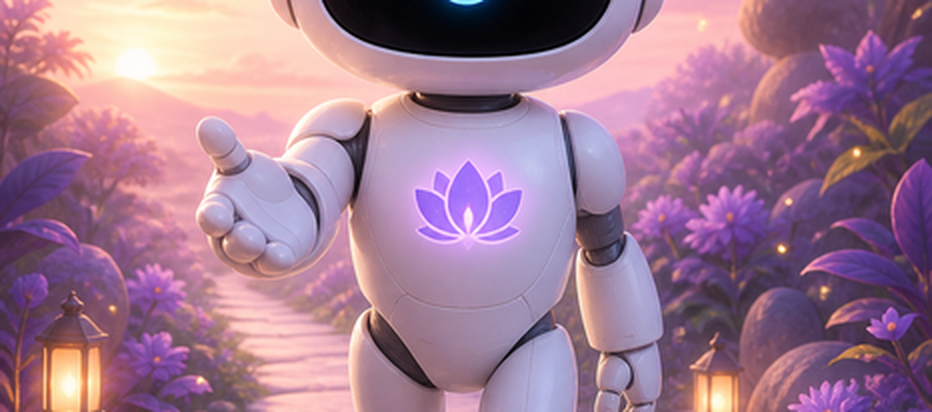
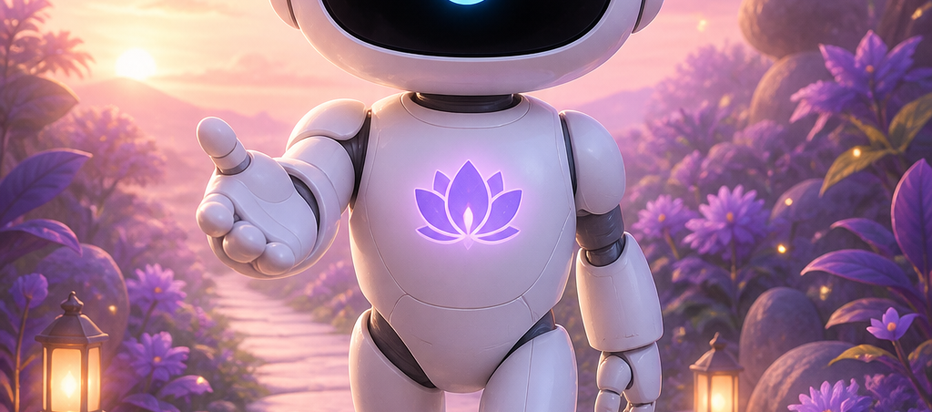
Onboarding: lock designer PNG map and splash framing
- Add onboardingAssets.ts for splash + three buddy paths and 78px width
- Wire StepSplash/Privacy/Setup/Contract to manifest only
- Splash: contain + drop-shadow (no double border); landscape from portrait source
- Mirror onboarding PNGs in references/calmlink-assets; edge-flood-fill script
- Document asset map in ASSETS.md

diff --git a/src/app/onboarding/components/StepSplash.tsx b/src/app/onboarding/components/StepSplash.tsx
@@ -1,13 +1,11 @@
 'use client';
 
 import React from 'react';
+import { onboardingAssets } from '@/app/onboarding/onboardingAssets';
 
 interface Props {
   onNext: () => void;
 }
-
-/** Horizontal 3D path hero — same framing as CalmLink onboarding DC (wide banner + warm glow). */
-const SPLASH_HERO_SRC = '/illustrations/spot_onboarding_dhira_path_landscape.png';
 
 export default function StepSplash({ onNext }: Props) {
   return (
@@ -16,26 +14,25 @@ export default function StepSplash({ onNext }: Props) {
         className="w-full"
         style={{
           maxWidth: 480,
-          borderRadius: 20,
-          border: '1px solid var(--color-border)',
-          boxShadow: '0 0 40px rgba(239,169,74,0.35)',
-          overflow: 'hidden',
+          filter: 'drop-shadow(0 0 28px rgba(239,169,74,0.35))',
           lineHeight: 0,
         }}
       >
         {/* eslint-disable-next-line @next/next/no-img-element */}
         <img
-          src={SPLASH_HERO_SRC}
+          src={onboardingAssets.splashHero}
           alt="DHIRA on a soft garden path at sunrise, welcoming you forward"
           width={932}
           height={412}
+          data-testid="onboarding-splash-hero"
           style={{
             width: '100%',
             height: 'auto',
             aspectRatio: '466 / 206',
-            objectFit: 'cover',
+            objectFit: 'contain',
             objectPosition: 'center center',
             display: 'block',
+            borderRadius: 20,
           }}
         />
       </div>

diff --git a/src/app/onboarding/onboardingAssets.ts b/src/app/onboarding/onboardingAssets.ts
@@ -1,0 +1,24 @@
+/**
+ * Onboarding illustration map — single source of truth.
+ * Files live in public/illustrations/ (designer PNGs; do not regenerate with AI).
+ *
+ * Sequence:
+ * 1 splashHero — horizontal 3D path scene
+ * 2 promiseBuddy — Our Promise (shield)
+ * 3 setupBuddy — Step 1 of 2 (wave)
+ * 4 contractBuddy — Step 2 of 2 (check-in)
+ */
+
+export const ONBOARDING_BUDDY_WIDTH = 78;
+
+export const onboardingAssets = {
+  /** Step 0 splash — horizontal banner (not portrait spot crop in UI). */
+  splashHero: '/illustrations/spot_onboarding_dhira_path_landscape.png',
+  /** Portrait source kept for archive / re-export only. */
+  splashHeroSource: '/illustrations/spot_onboarding_dhira_path.png',
+  promiseBuddy: '/illustrations/dhira_promise_shield.png',
+  setupBuddy: '/illustrations/dhira_setup_wave.png',
+  contractBuddy: '/illustrations/dhira_contract_checkin.png',
+} as const;
+
+export type OnboardingAssetKey = keyof typeof onboardingAssets;

diff --git a/src/app/onboarding/components/StepSetup.tsx b/src/app/onboarding/components/StepSetup.tsx
@@ -4,6 +4,7 @@ import React from 'react';
 import type { OnboardingData, Language } from './OnboardingFlow';
 import { LANGUAGE_OPTIONS } from '@/lib/artifactDesign';
 import { SHIFT_OPTIONS, writeStoredShift } from '@/lib/timeOfDay';
+import { onboardingAssets } from '@/app/onboarding/onboardingAssets';
 import OnboardingGreetingRow from './OnboardingGreetingRow';
 
 interface Props {
@@ -22,7 +23,7 @@ export default function StepSetup({ data, onChange, onNext, onBack }: Props) {
   return (
     <div style={{ display: 'flex', flexDirection: 'column', gap: '32px' }}>
       <OnboardingGreetingRow
-        buddySrc="/illustrations/dhira_setup_wave.png"
+        buddySrc={onboardingAssets.setupBuddy}
         buddyAlt="DHIRA waving hello while you choose your alias"
         eyebrow="Step 1 of 2"
         title={

diff --git a/src/app/onboarding/components/OnboardingGreetingRow.tsx b/src/app/onboarding/components/OnboardingGreetingRow.tsx
@@ -2,9 +2,9 @@
 
 import React from 'react';
 import FloatingBuddy from '@/components/FloatingBuddy';
+import { ONBOARDING_BUDDY_WIDTH } from '@/app/onboarding/onboardingAssets';
 
 /** Match home dashboard hero (`HomeGreeting`) — same buddy size, halo, and bob. */
-export const ONBOARDING_BUDDY_WIDTH = 78;
 export const ONBOARDING_BUDDY_BOB = 'dhira-bob 5.5s ease-in-out infinite';
 
 type Props = {
@@ -23,6 +23,7 @@ export default function OnboardingGreetingRow({ buddySrc, buddyAlt, eyebrow, tit
         alt={buddyAlt}
         width={ONBOARDING_BUDDY_WIDTH}
         bobAnimation={ONBOARDING_BUDDY_BOB}
+        className="onboarding-greeting-buddy"
       />
       <div style={{ display: 'flex', flexDirection: 'column', gap: '10px', textAlign: 'left', minWidth: 0 }}>
         <p

diff --git a/src/app/onboarding/components/StepContract.tsx b/src/app/onboarding/components/StepContract.tsx
@@ -3,6 +3,7 @@
 import React from 'react';
 import type { OnboardingData } from './OnboardingFlow';
 import { FREQUENCY_OPTIONS } from '@/lib/artifactDesign';
+import { onboardingAssets } from '@/app/onboarding/onboardingAssets';
 import OnboardingGreetingRow from './OnboardingGreetingRow';
 
 interface Props {
@@ -94,7 +95,7 @@ export default function StepContract({ data, onChange, onFinish, onBack }: Props
   return (
     <div style={{ display: 'flex', flexDirection: 'column', gap: '28px' }}>
       <OnboardingGreetingRow
-        buddySrc="/illustrations/dhira_contract_checkin.png"
+        buddySrc={onboardingAssets.contractBuddy}
         buddyAlt="DHIRA helping you choose a gentle check-in rhythm"
         eyebrow="Step 2 of 2"
         title={

diff --git a/src/app/onboarding/components/StepPrivacy.tsx b/src/app/onboarding/components/StepPrivacy.tsx
@@ -2,6 +2,7 @@
 
 import React from 'react';
 import { PROMISES } from '@/lib/artifactDesign';
+import { onboardingAssets } from '@/app/onboarding/onboardingAssets';
 import OnboardingGreetingRow from './OnboardingGreetingRow';
 
 interface Props {
@@ -20,7 +21,7 @@ export default function StepPrivacy({ onNext, onBack }: Props) {
   return (
     <div style={{ display: 'flex', flexDirection: 'column', gap: '32px' }}>
       <OnboardingGreetingRow
-        buddySrc="/illustrations/dhira_promise_shield.png"
+        buddySrc={onboardingAssets.promiseBuddy}
         buddyAlt="DHIRA holding a glowing shield with a lock, promising your safety and privacy"
         eyebrow="Our Promise"
         title="Your safety comes first."

diff --git a/scripts/edge-flood-fill-png.py b/scripts/edge-flood-fill-png.py
@@ -1,0 +1,58 @@
+#!/usr/bin/env python3
+"""Edge flood-fill background removal for buddy PNGs (see references/calmlink-assets/ASSETS.md)."""
+from __future__ import annotations
+
+import sys
+from collections import deque
+from pathlib import Path
+
+from PIL import Image
+
+
+def is_bg(r: int, g: int, b: int, a: int, threshold: int = 28) -> bool:
+    if a < 8:
+        return True
+    return r <= threshold and g <= threshold and b <= threshold
+
+
+def flood_fill_transparent(path: Path, threshold: int = 28) -> None:
+    im = Image.open(path).convert("RGBA")
+    w, h = im.size
+    px = im.load()
+    visited = [[False] * w for _ in range(h)]
+    q: deque[tuple[int, int]] = deque()
+
+    for x in range(w):
+        for y in (0, h - 1):
+            if is_bg(*px[x, y], threshold):
+                q.append((x, y))
+                visited[y][x] = True
+    for y in range(h):
+        for x in (0, w - 1):
+            if not visited[y][x] and is_bg(*px[x, y], threshold):
+                q.append((x, y))
+                visited[y][x] = True
+
+    while q:
+        x, y = q.popleft()
+        px[x, y] = (px[x, y][0], px[x, y][1], px[x, y][2], 0)
+        for nx, ny in ((x - 1, y), (x + 1, y), (x, y - 1), (x, y + 1)):
+            if 0 <= nx < w and 0 <= ny < h and not visited[ny][nx]:
+                if is_bg(*px[nx, ny], threshold):
+                    visited[ny][nx] = True
+                    q.append((nx, ny))
+
+    im.save(path, optimize=True)
+    print(f"OK {path} -> RGBA flood-fill")
+
+
+def main() -> None:
+    if len(sys.argv) < 2:
+        print("Usage: edge-flood-fill-png.py <file.png> [...]")
+        sys.exit(1)
+    for arg in sys.argv[1:]:
+        flood_fill_transparent(Path(arg))
+
+
+if __name__ == "__main__":
+    main()

diff --git a/references/calmlink-assets/ASSETS.md b/references/calmlink-assets/ASSETS.md
@@ -3,10 +3,11 @@
 12 images. Copy the whole `assets-used/` folder into `public/illustrations/`,
 then reference them as `/illustrations/<file>`.
 
-All bot cut-outs are transparent PNGs, background removed with an **edge flood fill**
-(not a near-white threshold) so the bot's own glossy highlights survive.
-If you re-export any of these, use the same method or the helmet and shoulders
-will get holes punched in them.
+Designer originals for onboarding also live in `references/calmlink-assets/` (mirror of `public/illustrations/` for those files). **Do not regenerate with AI** — replace bytes only from designer exports.
+
+Code map: [`src/app/onboarding/onboardingAssets.ts`](../../src/app/onboarding/onboardingAssets.ts) (single source of truth for paths + buddy width **78px**).
+
+Edge flood-fill helper: `python3 scripts/edge-flood-fill-png.py public/illustrations/<buddy>.png`
 
 ---
 
@@ -25,7 +26,7 @@ will get holes punched in them.
 | `bot_avatar.png` | 256×256 | Chat, Landing, Profile, Sign up | Small round avatar — chat bubbles, nav, testimonials. |
 | `spot_welcome.png` | 466×206 | Onboarding (legacy) | Former welcome step spot; superseded by `spot_onboarding_dhira_path.png` on splash. |
 | `spot_onboarding_dhira_path.png` | 1024×1536 | Onboarding (source) | Full portrait 3D path scene — source for landscape crop. |
-| `spot_onboarding_dhira_path_landscape.png` | 932×412 | Onboarding | Step 0 splash — **horizontal** banner (`466:206`), warm glow frame. |
+| `spot_onboarding_dhira_path_landscape.png` | 932×412 | Onboarding | Step 0 splash (`onboardingAssets.splashHero`) — horizontal banner; export from portrait source. |
 | `dhira_contract_checkin.png` | — | Onboarding | Step 2 of 2 — `OnboardingGreetingRow` / `FloatingBuddy` @ **78px**, left of headline (same as Home). |
 | `dhira_setup_wave.png` | — | Onboarding | Step 1 of 2 — `OnboardingGreetingRow` / **78px**, waving pose. |
 | `dhira_promise_shield.png` | — | Onboarding | Our Promise — `OnboardingGreetingRow` / **78px**, shield pose. |
